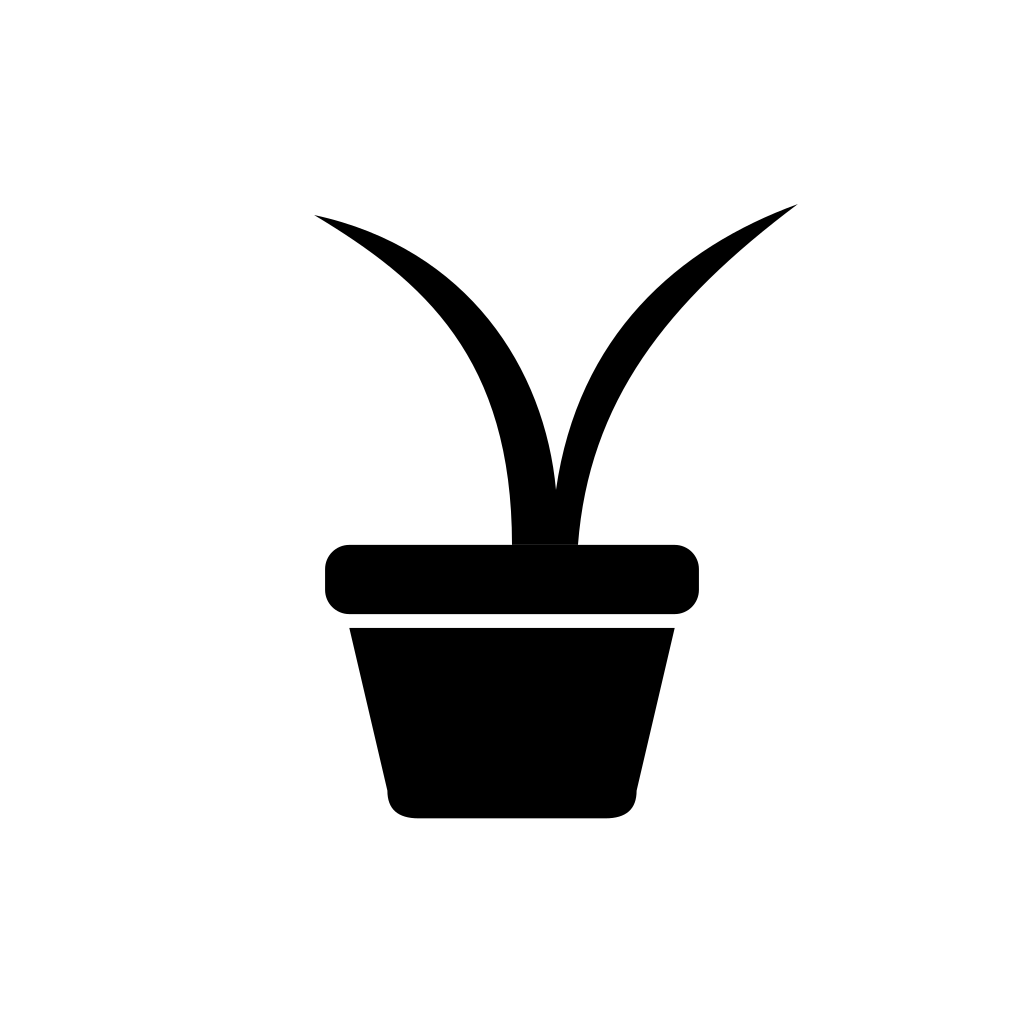
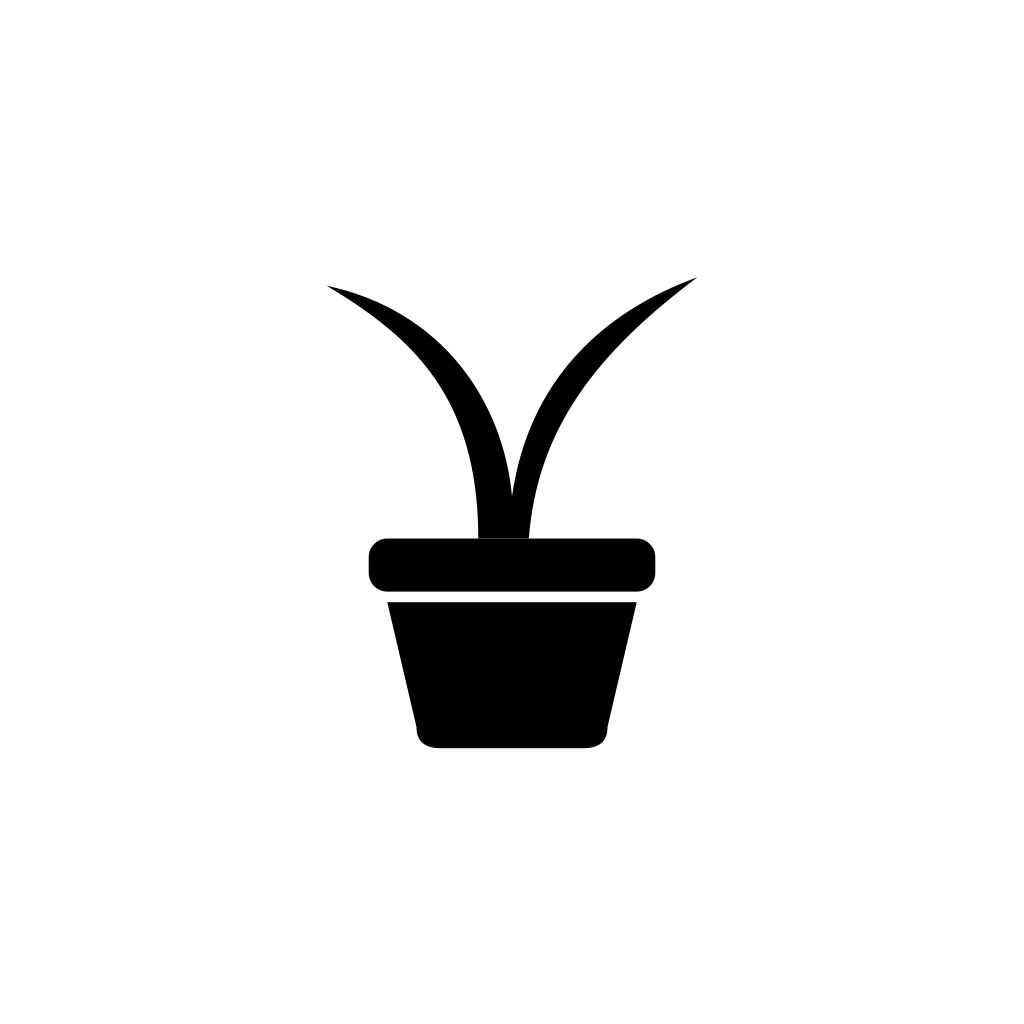
Marca centralizada no quadro
A folha do desenho é assimétrica — ocupa de 20 a 64 no espaço dela, com o
centro em 42, enquanto o vaso está em 38. Passa a ser encaixada pelo centro
dela, e não pelo ponto onde os ramos nascem.

O enquadramento também estava errado: a caixa ainda usava cx 281, o centro da
arte de quando a folha pendia para a direita, e empurrava a composição
inteira 25 pontos para a esquerda. Medindo os pixels do PNG gerado, arte,
planta e vaso agora caem todos no mesmo eixo.

Changed region(s): [[0.3125, 0.5312, 0.6875, 0.8125], [0.3125, 0.2188, 0.75, 0.5312], [0.75, 0.1875, 0.7812, 0.2188]]

diff --git a/scripts/generate-icons.js b/scripts/generate-icons.js
@@ -13,10 +13,10 @@ const SITE = process.env.BROTO_WEB_DIR ?? path.join(__dirname, "..", "..", "web"
 const LEAF =
   "M38 39C38 22 30 15 20 9C34 12 41 23 42 34C44 20 53 12 64 8C52 17 45 26 44 39H38Z";
 const FIT =
-  "translate(256 306) scale(6.3529) translate(-38 -39)";
+  "translate(256 306) scale(6.3529) translate(-42 -39)";
 const BODY = "M-94 2 L94 2 L72 96 Q72 112 54 112 L-54 112 Q-72 112 -72 96 Z";
 
-const BOX = { cx: 256, cy: 287, height: 355 };
+const BOX = { cx: 256, cy: 286, height: 355 };
 
 function mark(plant, pot, rim) {
   return `
@@ -44,11 +44,11 @@ function canvas({ background, scale, flat, radius }) {
 
 const targets = [
   { file: "icon.png", size: 1024, background: SAND, scale: 0.74 },
-  { file: "android-icon-foreground.png", size: 1024, scale: 0.6 },
+  { file: "android-icon-foreground.png", size: 1024, scale: 0.46 },
   {
     file: "android-icon-monochrome.png",
     size: 1024,
-    scale: 0.6,
+    scale: 0.46,
     flat: "#000000",
   },
   { file: "splash-icon.png", size: 512, scale: 0.86 },

diff --git a/src/components/illustrations/Logo.tsx b/src/components/illustrations/Logo.tsx
@@ -3,7 +3,7 @@ import Svg, { G, Path, Rect } from "react-native-svg";
 import { theme } from "@/style/theme";
 
 const LEAF = "M38 39C38 22 30 15 20 9C34 12 41 23 42 34C44 20 53 12 64 8C52 17 45 26 44 39H38Z";
-const FIT = "translate(256 306) scale(6.3529) translate(-38 -39)";
+const FIT = "translate(256 306) scale(6.3529) translate(-42 -39)";
 const BODY = "M-94 2 L94 2 L72 96 Q72 112 54 112 L-54 112 Q-72 112 -72 96 Z";
 
 type LogoProps = {
@@ -18,7 +18,7 @@ export function Logo({ size = 64, tone = "color" }: LogoProps) {
   const rim = light ? theme.text.onPrimary : theme.primary.clay;
 
   return (
-    <Svg width={size} height={size} viewBox="135 103 292 367">
+    <Svg width={size} height={size} viewBox="110 103 292 367">
       <G transform={FIT} fill={plant}>
         <Path d={LEAF} />
       </G>
